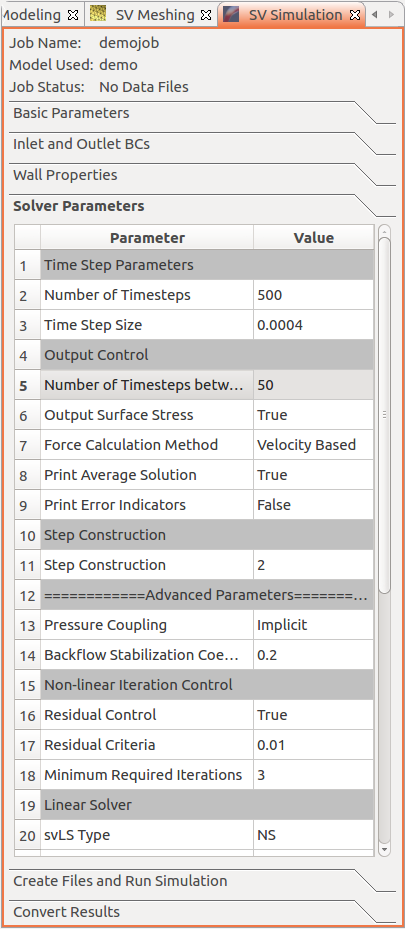
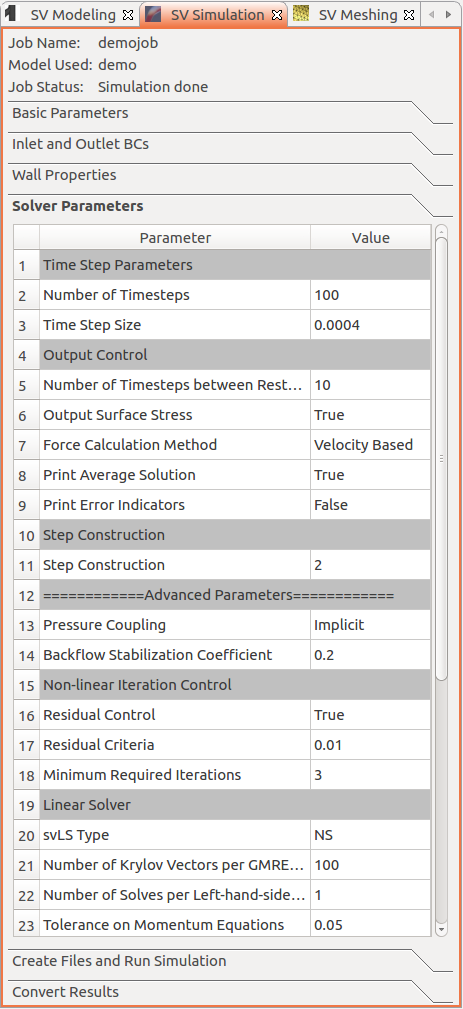
update simulation for quick guide

diff --git a/source/documentation/quickguide/_simulation.md b/source/documentation/quickguide/_simulation.md
@@ -70,9 +70,9 @@ To set BC for the outlets (outflow\_right\_iliac, outflow\_aorta):
 
 There are many parameters for flow solver, but only a few is required to set explicitly. Advanced paramters are optional.
 
-	Number of Timesteps: 500
+	Number of Timesteps: 100
 	Time Step Size: 0.0004
-	Number of Timesteps between Restarts: 50
+	Number of Timesteps between Restarts: 10
 	Step Construction : 2 # standard two iterations, enough for constant  problems.
 
 <figure>
@@ -100,7 +100,7 @@ After the simulation is completed, all the simulation result files restart.**.*\
 
 <font color="red">**HELPFUL HINT:** </font>  If you choose more than one processors, for example, 8 processors are used. **SimVascular** will create a new folder *8-procs\_case* in the folder [proj_path]/Simulations/demojob. All the simulation result files restart.\*.\* are in the folder 8-procs_\_case.
 
-You can also export the required data files and upload to a computer cluster to run the simulation.
+(Optional) You can also export the required data files and upload to a computer cluster to run the simulation.
 
 To export the files:
 
@@ -115,16 +115,16 @@ A folder "demojob-sim-files" is created, which contains the exported data files 
 To convert the simulation result files to .vtp and .vtu files, which we can use to show the results in ParaView.
 
 	Result Dir:  [proj_path]/Simulations/demojob/*8-procs_\_case* or Click the button "..." to select a directory
-	Start: 50
-	Stop: 500
-	Increment: 50
-	Click the button "Export..."
-	Select a directory for exporting
+	Start: 10
+	Stop: 100
+	Increment: 10
+	Click the button "Convert ..."
+	Select a directory for exporting (in this example: [proj_path]/Simulations/demojob/)
 
 <figure>
-  <img class="svImg svImgSm"  src="documentation/quickguide/imgs/exportresults.png"> 
+  <img class="svImg svImgSm"  src="documentation/quickguide/imgs/convertresults.png"> 
   <figcaption class="svCaption" ></figcaption>
 </figure>
 
-Since it is a steady case, only the last time step is needed. A new folder "demojob-results" is created and contains the output files all\_results\_00500.vtp, all\_results\_00500.vtu, average_results.vtp.
+Since it is a steady case, only the last time step is needed. A new folder "demojob-converted-results" is created and contains the output files all\_results\_00010.vtp,..., all\_results\_00100.vtp, all\_results\_00010.vtu, ..., all\_results\_00100.vtu, average_results.vtp.
 

diff --git a/source/documentation/quickguide/_results.md b/source/documentation/quickguide/_results.md
@@ -2,11 +2,11 @@
 
 Launch ParaView.
 
-	Open the file "steady.vtp", "steady.vtu" with ParaView.
+	Open the file "all_results_00100.vtu" with ParaView.
 	Click the button “Apply”
 
 <figure>
-  <img class="svImg svImgXl"  src="documentation/quickguide/imgs/result1.jpg"> 
+  <img class="svImg svImgXl"  src="documentation/quickguide/imgs/result1.png"> 
   <figcaption class="svCaption" ></figcaption>
 </figure>
 
@@ -16,12 +16,12 @@ To do this, we must calculate the scalar quantity representing the magnitude of 
 
 	Click the calculator tool button
 	Result Array Name: vel mag (cm/s)
-	Enter "mag(velocity_00500)" just above the calculator pane
+	Enter "mag(velocity)" just above the calculator pane
 	Click the button “Apply”
 	Representation: Volume
 
 <figure>
-  <img class="svImg svImgXl"  src="documentation/quickguide/imgs/result2.jpg"> 
+  <img class="svImg svImgXl"  src="documentation/quickguide/imgs/result2.png"> 
   <figcaption class="svCaption" ></figcaption>
 </figure>
 
